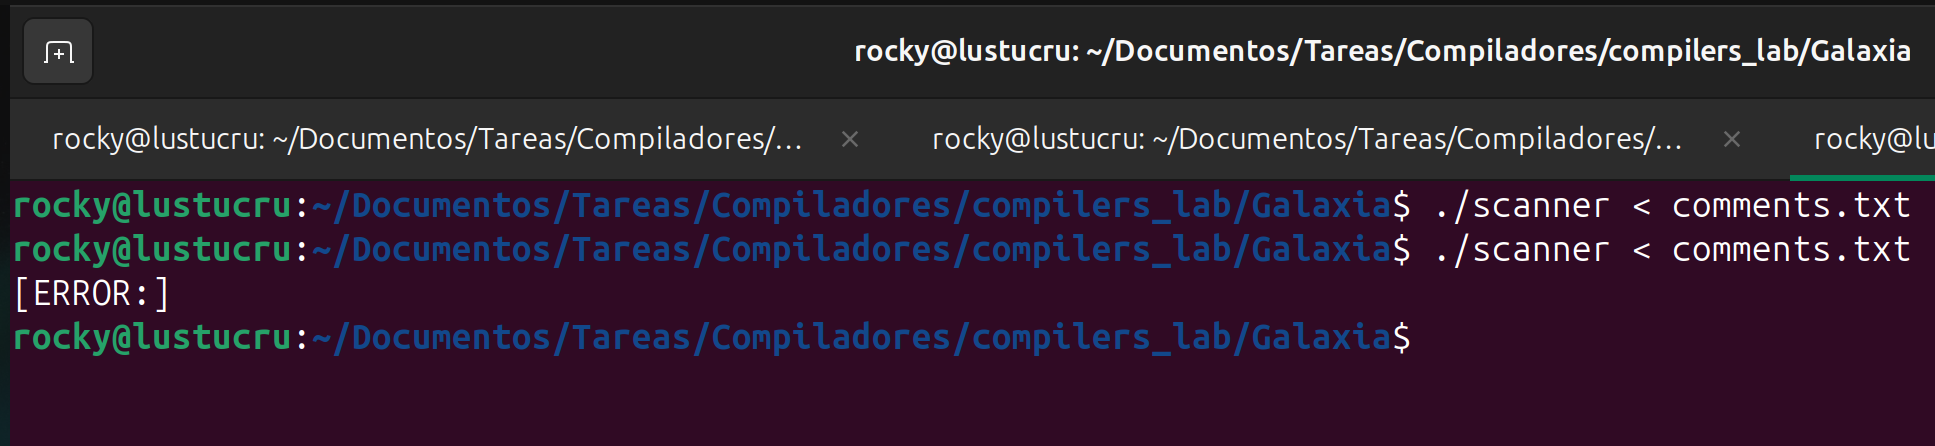
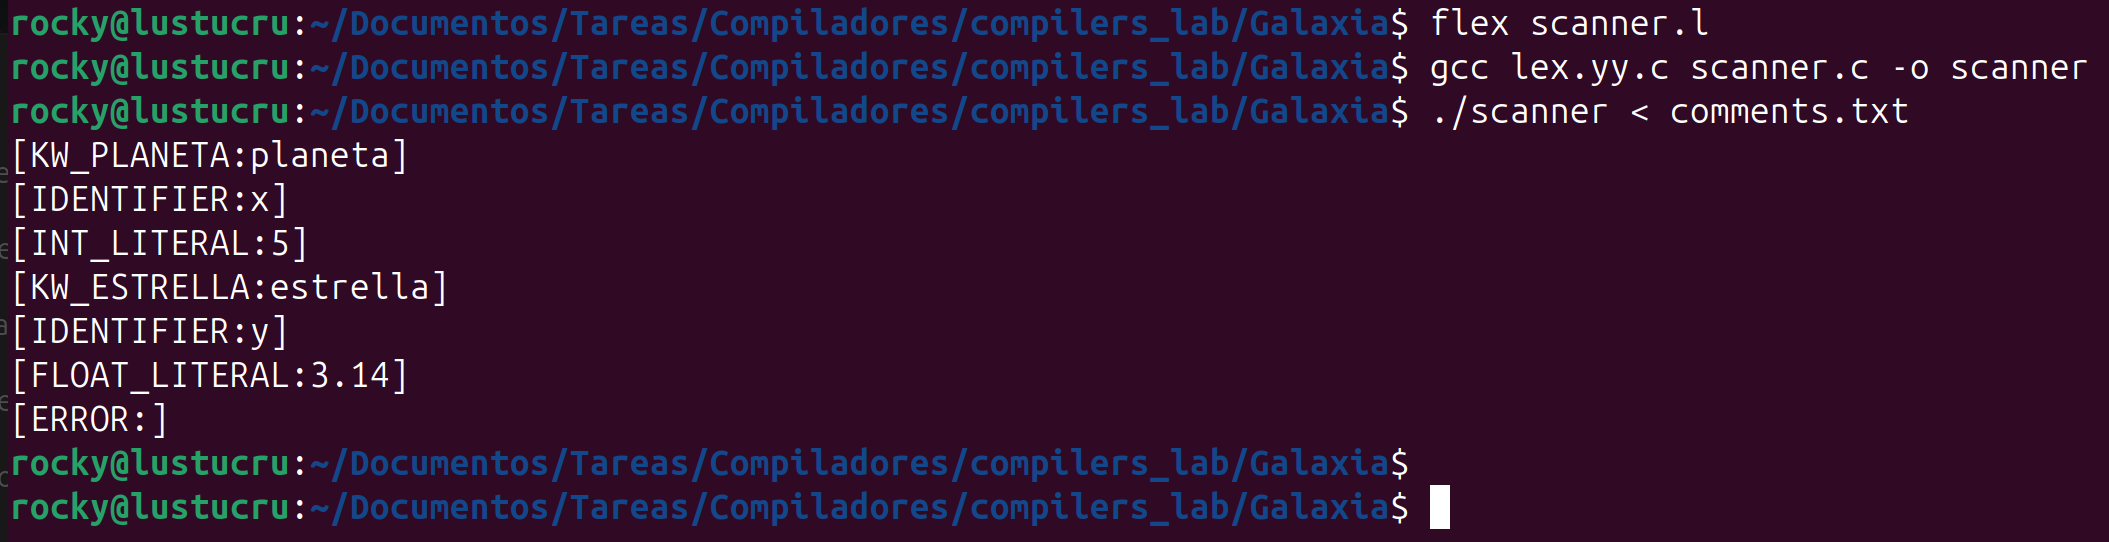
chore: finished ts

diff --git a/tex/Practica4.tex b/tex/Practica4.tex
@@ -410,7 +410,7 @@ Por otro lado, la cantidad de caracteres que se pueden representar en cadenas o 
 \item \textbf{Rodrigo Zaldivar Alanis}:
   
     \textbf{Comentarios anidados.}
-    La implementación de comentarios anidados en un lenguaje de programación es útil para cuando un usuario del lenguaje necesita comentar temporalmente una función, que frecuentemente se debe a que se realizará una depuración. En lenguajes donde esta característica no está implementada, al encontrar un comentario dentro de otro comentario, al leer el caracter de cierre (comúnmente */) en el comentario anidado, el lexer lo interpreta como que todo el bloque de comentario ha sido cerrado, lo cuál deja al programa en un estado inconsistente que no es reconocido por el lexer. Para solventar esta problemática, se simula un \textit{push down automaton}. Se hace uso de un estado de exclusión cuando se entra en un comentario anidado para que solamente se tomen en cuenta las reglas definidas para los comentarios anidados, esto se hace mediante la directiva BEGIN, cuando se lee el inicio de comentario y se termina cuando el contador de profundidad es cero. Se usa una variable definida en la cabecera del programa que lleve la cuenta de los niveles de profundidad en los comentarios anidados. La implementación de los comentarios anidados está en la sección de reglas. Cada que se lee la apertura de comentario, la variable es incrementada en uno. Cuando lee el cierre de un comentario, decrementa la variable en uno. De tal manera que cuando se sale de todo el bloque de comentarios, el contador de profundidad debe valer cero. Si el lexer lee end of file y el contador de profundidad $> 0$, se manda error. Si se lee un símbolo dentro de los comentarios de tal manera que este no es de inicio o fin de comentario, este simplemente se ignora.
+    La implementación de comentarios anidados en un lenguaje de programación es útil para cuando un usuario del lenguaje necesita comentar temporalmente una función, que frecuentemente se debe a que se realizará una depuración. En lenguajes donde esta característica no está implementada, al encontrar un comentario dentro de otro comentario, al leer el caracter de cierre (comúnmente */) en el comentario anidado, el lexer lo interpreta como que todo el bloque de comentario ha sido cerrado, lo cuál deja al programa en un estado inconsistente que no es reconocido por el lexer. Para solventar esta problemática, se simula un \textit{push down automaton}. Se hace uso de un estado de exclusión cuando se entra en un comentario anidado para que solamente se tomen en cuenta las reglas definidas para los comentarios anidados, esto se hace mediante la directiva BEGIN, cuando se lee el inicio de comentario y se termina cuando el contador de profundidad es cero. Se usa una variable definida en la cabecera \textit{profundidad} del programa que lleve la cuenta de los niveles de profundidad en los comentarios anidados. La implementación de los comentarios anidados está en la sección de reglas. Cada que se lee la apertura de comentario, la variable es incrementada en uno. Cuando lee el cierre de un comentario, decrementa la variable en uno. De tal manera que cuando se sale de todo el bloque de comentarios, el contador de profundidad debe valer cero. Si el lexer lee end of file y el contador de profundidad $> 0$, se manda error. Si se lee un símbolo dentro de los comentarios de tal manera que este no es de inicio o fin de comentario, este simplemente se ignora.
     \newpage
     \begin{figure}[H]
       \begin{minipage}{0.6\textwidth}
@@ -434,7 +434,7 @@ Por otro lado, la cantidad de caracteres que se pueden representar en cadenas o 
     \end{minipage}
     \end{figure}
 
-    Para probarlo, tomaremos dos casos. El del camino feliz, en el cuál se omite la última línea que es la que genera un error debido a que los comentarios no cierran apropiadamanete antes de encontrar el símbolo de fin de archivo. Esta entrada no debería arrojar nada. Por otro lado, si incluimos la última línea, la ejecución debe darnos un error.
+    Para probarlo, tomaremos dos casos. El del camino feliz, en el cuál se omite la última línea que es la que genera un error debido a que los comentarios no cierran apropiadamanete antes de encontrar el símbolo de fin de archivo. Esta entrada no debería arrojar ningún error. Por otro lado, si incluimos la última línea, la ejecución debe darnos un error.
 
     \begin{figure}[H]
       \begin{minipage}{0.6\textwidth}
